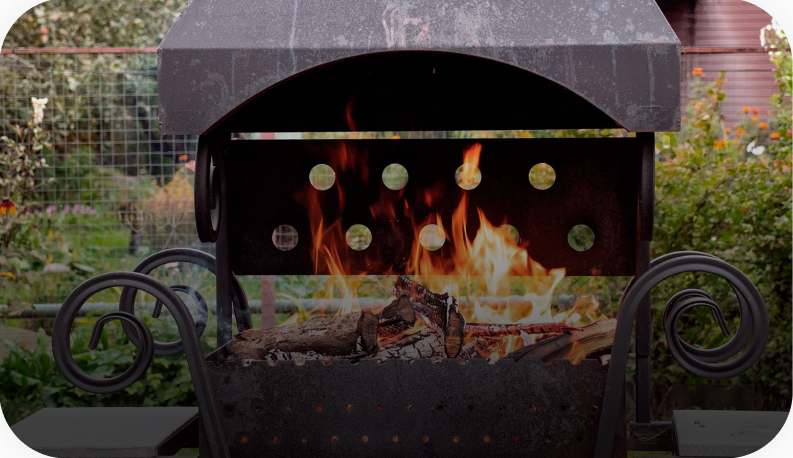
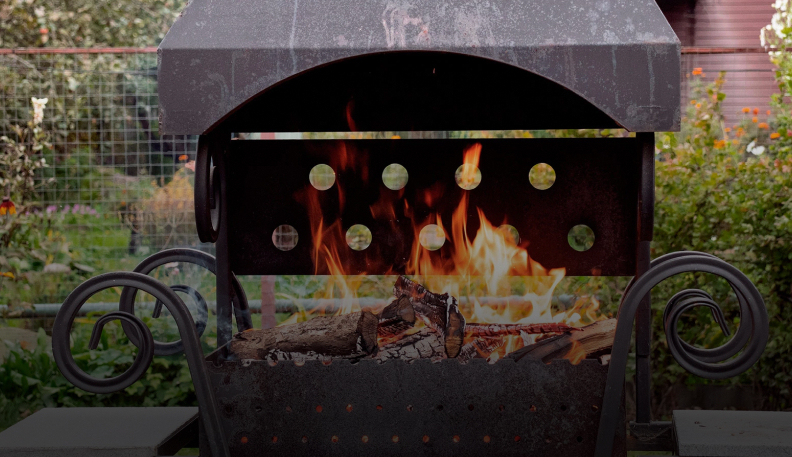
pravki

diff --git a/index.html b/index.html
@@ -46,7 +46,6 @@
                                 <a href="#" class="navigation-page__link">Закуски</a>
                             </li>
                             <li class="navigation-page-item">
-                                <a href="#" class="navigation-page__link">Детское меню</a>
                                 <a href="#" class="navigation-page__link">Напитки</a>
                                 <a href="#" class="navigation-page__link">Соусы</a>
                             </li>
@@ -114,7 +113,7 @@
             <section class="main-banner container" >
                 <div class="main-container" style="background: url('./assets/images/main-banner.jpg');">
                     <div class="main-banner__info">
-                        <h1 class="main-banner__title">Вкус и атмосфера Грузии</h1>
+                        <h1 class="main-banner__title">Вкус и атмосфера Грузии и Европы</h1>
                         <h3 class="main-banner__suptitle">Новые блюда от нашего <br> шеф-повара</h3>
                         <button class="main-banner__btn">Подробнее</button>
                     </div>
@@ -145,7 +144,7 @@
                     </a>
                     <a href="#" class="catalog-item" style="background: url('./assets/images/catalog3.jpg');">
                         <div class="catalog-item__content">
-                            <div class="catalog-name">Детское</div>
+                            <div class="catalog-name">Горячее</div>
                             <svg xmlns="http://www.w3.org/2000/svg" width="10" height="18" viewBox="0 0 10 18" fill="none">
                                 <path d="M1.28854 1.41034L8.77137 8.89317L1.28854 16.376" stroke="white" stroke-width="1.87071" stroke-linecap="round" stroke-linejoin="round"/>
                             </svg>
@@ -203,6 +202,15 @@
                         <button class="sale-banner__btn">Узнать больше</button>
                     </div>
                 </div>
+                <div class="sale-banner__wrapper banner-two" style="background: url('./assets/images/sale-banner.jpg');">
+                    <div class="sale-banner__info">
+                        <h5 class="sale-banner__title">Акция</h5>
+                        <p class="sale-banner__suptitle">Позвоните сейчас <br> и получите блюдо в подарок!</p>
+                    </div>
+                    <div class="sale-btn__wrapper">
+                        <a href="tel:89055994422" class="sale-banner__btn">Позвонить</a>
+                    </div>
+                </div>
             </section>
             <section class="about container">
                 <h3 class="section-title">Пару слов о нас</h3>
@@ -220,6 +228,12 @@
                             <h5 class="index-about-item__title">Имя исполнителя</h5>
                         </div>
                     </div>
+                    <a  href="#" class="index-about-item foto" style="background: url('./assets/images/about1.jpg');">
+                        <div class="index-about-item__content">
+                            <p class="index-about-item__subtitle">Фотографии</p>
+                            <h5 class="index-about-item__title">Наше заведение</h5>
+                        </div>
+                    </a>
                 </div>
             </section>
             <section class="index-adress container">
@@ -519,8 +533,6 @@
         </footer>
     </div>
     <script src="https://cdnjs.cloudflare.com/ajax/libs/jquery/3.7.1/jquery.min.js"></script>
-    <!-- <script src="./assets/js/jquery.inputmask.min.js"></script>
-    <script src="./assets/js/inputmask.binding.js"></script> -->
     <script src="./assets/js/slick.min.js"></script>
     <script src="./assets/js/main.js"></script>
 </body>

diff --git a/assets/css/style.css b/assets/css/style.css
@@ -364,6 +364,7 @@ body{
     font-style: normal;
     font-weight: 700;
     text-transform: uppercase;
+    color: #fff;
 }
 @keyframes pulse {
     0% {
@@ -379,25 +380,25 @@ body{
 
 .index-about-wrapper{
     display: grid;
-    grid-template-columns: repeat(2, 1fr);
+    grid-template-columns: repeat(3, 1fr);
     gap: 0 66px;
 }
 .index-about-item{
     width: 100%;
-    height: 460px;
-    border-radius: 66.667px;
+    height: 360px;
+    border-radius: 36.667px;
     box-shadow: 0px 0px 73.33334px 0px rgba(0, 0, 0, 0.10);
     position: relative;
-    padding: 46px 66px 66px;
+    padding: 30px 46px 46px;
 }
 .index-about-item__content{
     position: absolute;
-    bottom: 66px;
+    bottom: 30px;
 }
 .index-about-item__suptitle{
     font-size: 36px;
     font-weight: 400;
-    line-height: 57.333px;
+    line-height: 30.333px;
     background: linear-gradient(147deg, #FFF 18.68%, #E1E1E1 93.9%);
     background-clip: text;
     -webkit-background-clip: text;
@@ -409,7 +410,7 @@ body{
     -webkit-background-clip: text;
     -webkit-text-fill-color: transparent;
     text-shadow: 0px 0px 73.33333587646484px rgba(235, 189, 113, 0.65);
-    font-size: 42.667px;
+    font-size: 30.667px;
     font-weight: 400;
     line-height: 57.333px;
 }
@@ -419,7 +420,7 @@ body{
     -webkit-background-clip: text;
     -webkit-text-fill-color: transparent;
     text-shadow: 0px 0px 73.33333587646484px rgba(235, 189, 113, 0.65);
-    font-size: 64px;
+    font-size: 40px;
     font-weight: 600;
     line-height: 57.333px;
 }
@@ -2105,8 +2106,9 @@ body{
     .main-container{
         height: 400px;
         padding: 77px 0 87px 115px;
-        background-size: cover !important;
+        background-size: cover!important;
         width: 100%;
+        background-repeat: no-repeat;
     }
     .main-banner__title{
         font-size: 40px;
@@ -2157,24 +2159,27 @@ body{
         padding: 20px 39px;
         border-radius: 15px;
     }
+    .index-about-wrapper{
+        gap: 30px;
+    }
     .index-about-item{
-        height: 345px;
+        height: 270px;
         border-radius: 50px;
-        padding: 35px 50px 50px;
+        padding: 25px;
         background-size: cover !important;
     }
     .index-about-item__subtitle{
-        font-size: 32px;
+        font-size: 25px;
         line-height: 43px;
     }
     .index-about-item__title{
-        font-size: 48px;
+        font-size: 30px;
     }
     .index-about-item__suptitle{
-        font-size: 32px;
+        font-size: 25px;
     }
     .index-about-item__content{
-        bottom: 50px;
+        bottom: 30px;
     }
     .index-adress__title {
         font-size: 47px;
@@ -2487,6 +2492,12 @@ body{
 @media (max-width: 850px){
     .offer-wrapper{
         grid-template-columns: repeat(1, 1fr);
+    }
+    .main-container{
+        filter: brightness(90%);
+    }
+    .main-banner__title {
+        font-size: 30px !important;
     }
     .buy-items__wrapper .product-item .product-item__wrapper{
         padding: 0;
@@ -3154,7 +3165,11 @@ body{
         border-radius: 35px;
         height: 365px;
         padding: 50px 27px;
-        background-position: center !important;
+        background-position: left center !important;
+        filter: brightness(100%);
+    }
+    .banner-two{
+        padding-top: 45px !important;
     }
     .main-banner__title {
         margin-bottom: 20px;

diff --git a/assets/js/main.js b/assets/js/main.js
@@ -52,6 +52,17 @@ $(".btn-close__menu").click(function() {
       });
 });
 
+$('.sale-banner').slick({
+  speed: 1500,
+  slidesToShow: 1,
+  autoplay: true,
+  autoplaySpeed: 2500,
+  fade: true,
+  arrows: false,
+});
+
+
+
 
 
 
